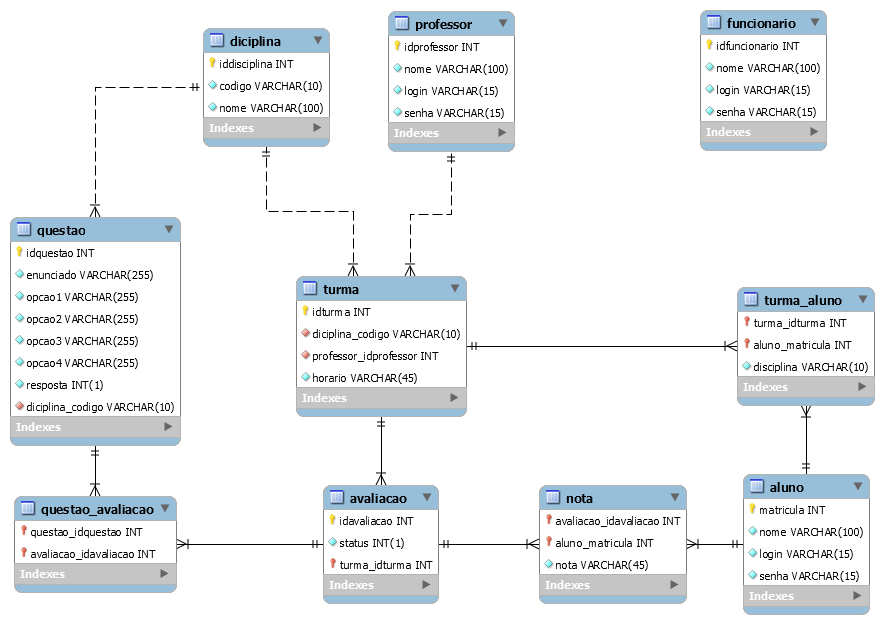
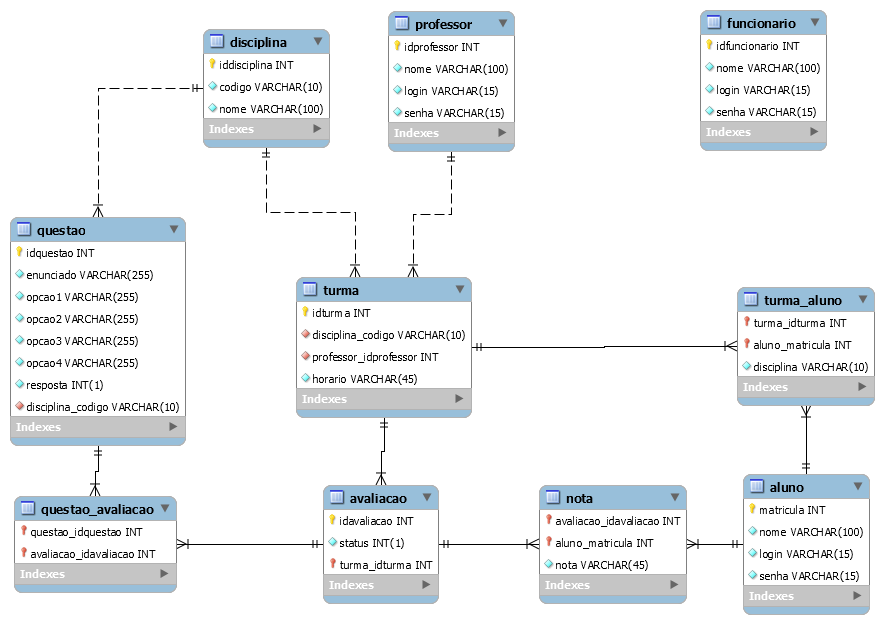
corrigindo erro

diff --git a/application/modules/turmas/models/Turma.php b/application/modules/turmas/models/Turma.php
@@ -2,7 +2,7 @@
 
 class Turma extends CI_Model {
     public $idturma;
-    public $diciplina_codigo;
+    public $disciplina_codigo;
     public $professor_idprofessor;
     public $horario;
     public $alunoList;
@@ -27,7 +27,7 @@ class Turma extends CI_Model {
 
             // Monta o objeto turma
             $this->idturma = $result->idturma;
-            $this->diciplina_codigo = $result->diciplina_codigo;
+            $this->disciplina_codigo = $result->disciplina_codigo;
             $this->professor_idprofessor = $result->professor_idprofessor;
             $this->horario = $result->horario;
             $this->alunoList = $result->alunoList;
@@ -87,7 +87,7 @@ class Turma extends CI_Model {
         foreach ($result as $turma) {
             $tmp    = new Turma();
             $tmp->idturma = $turma->idturma;
-            $tmp->diciplina_codigo = $turma->diciplina_codigo;
+            $tmp->disciplina_codigo = $turma->disciplina_codigo;
             $tmp->professor_idprofessor = $turma->professor_idprofessor;
             $tmp->horario = $turma->horario;
             $tmp->alunoList = $turma->alunoList;
